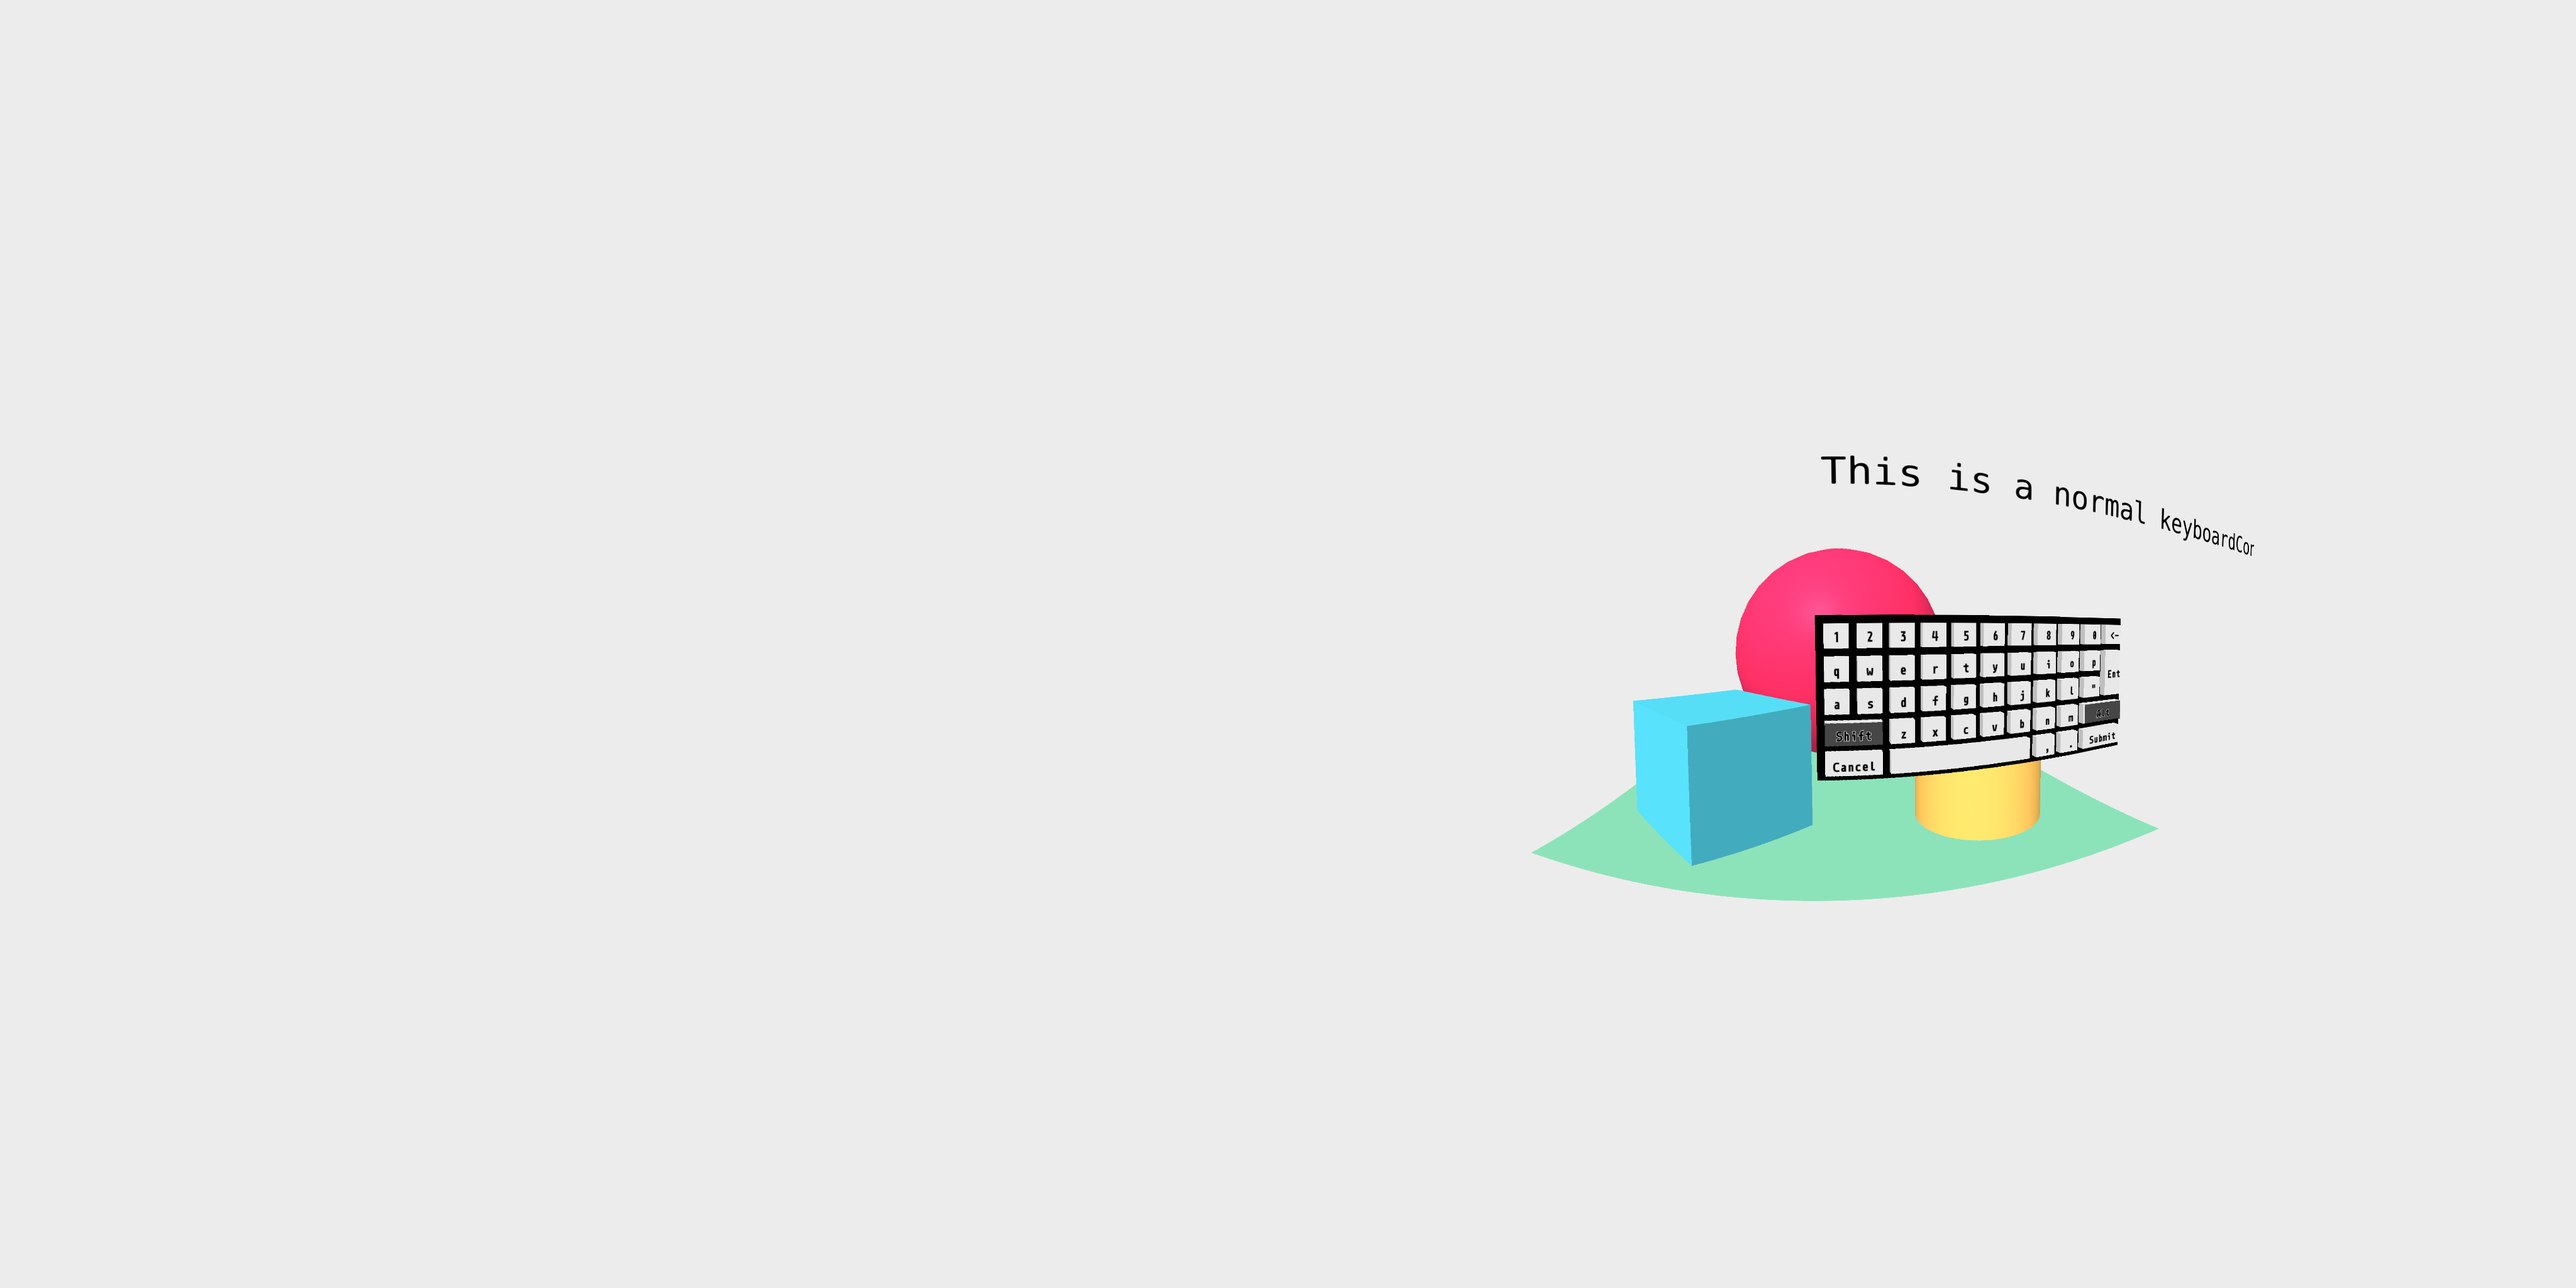
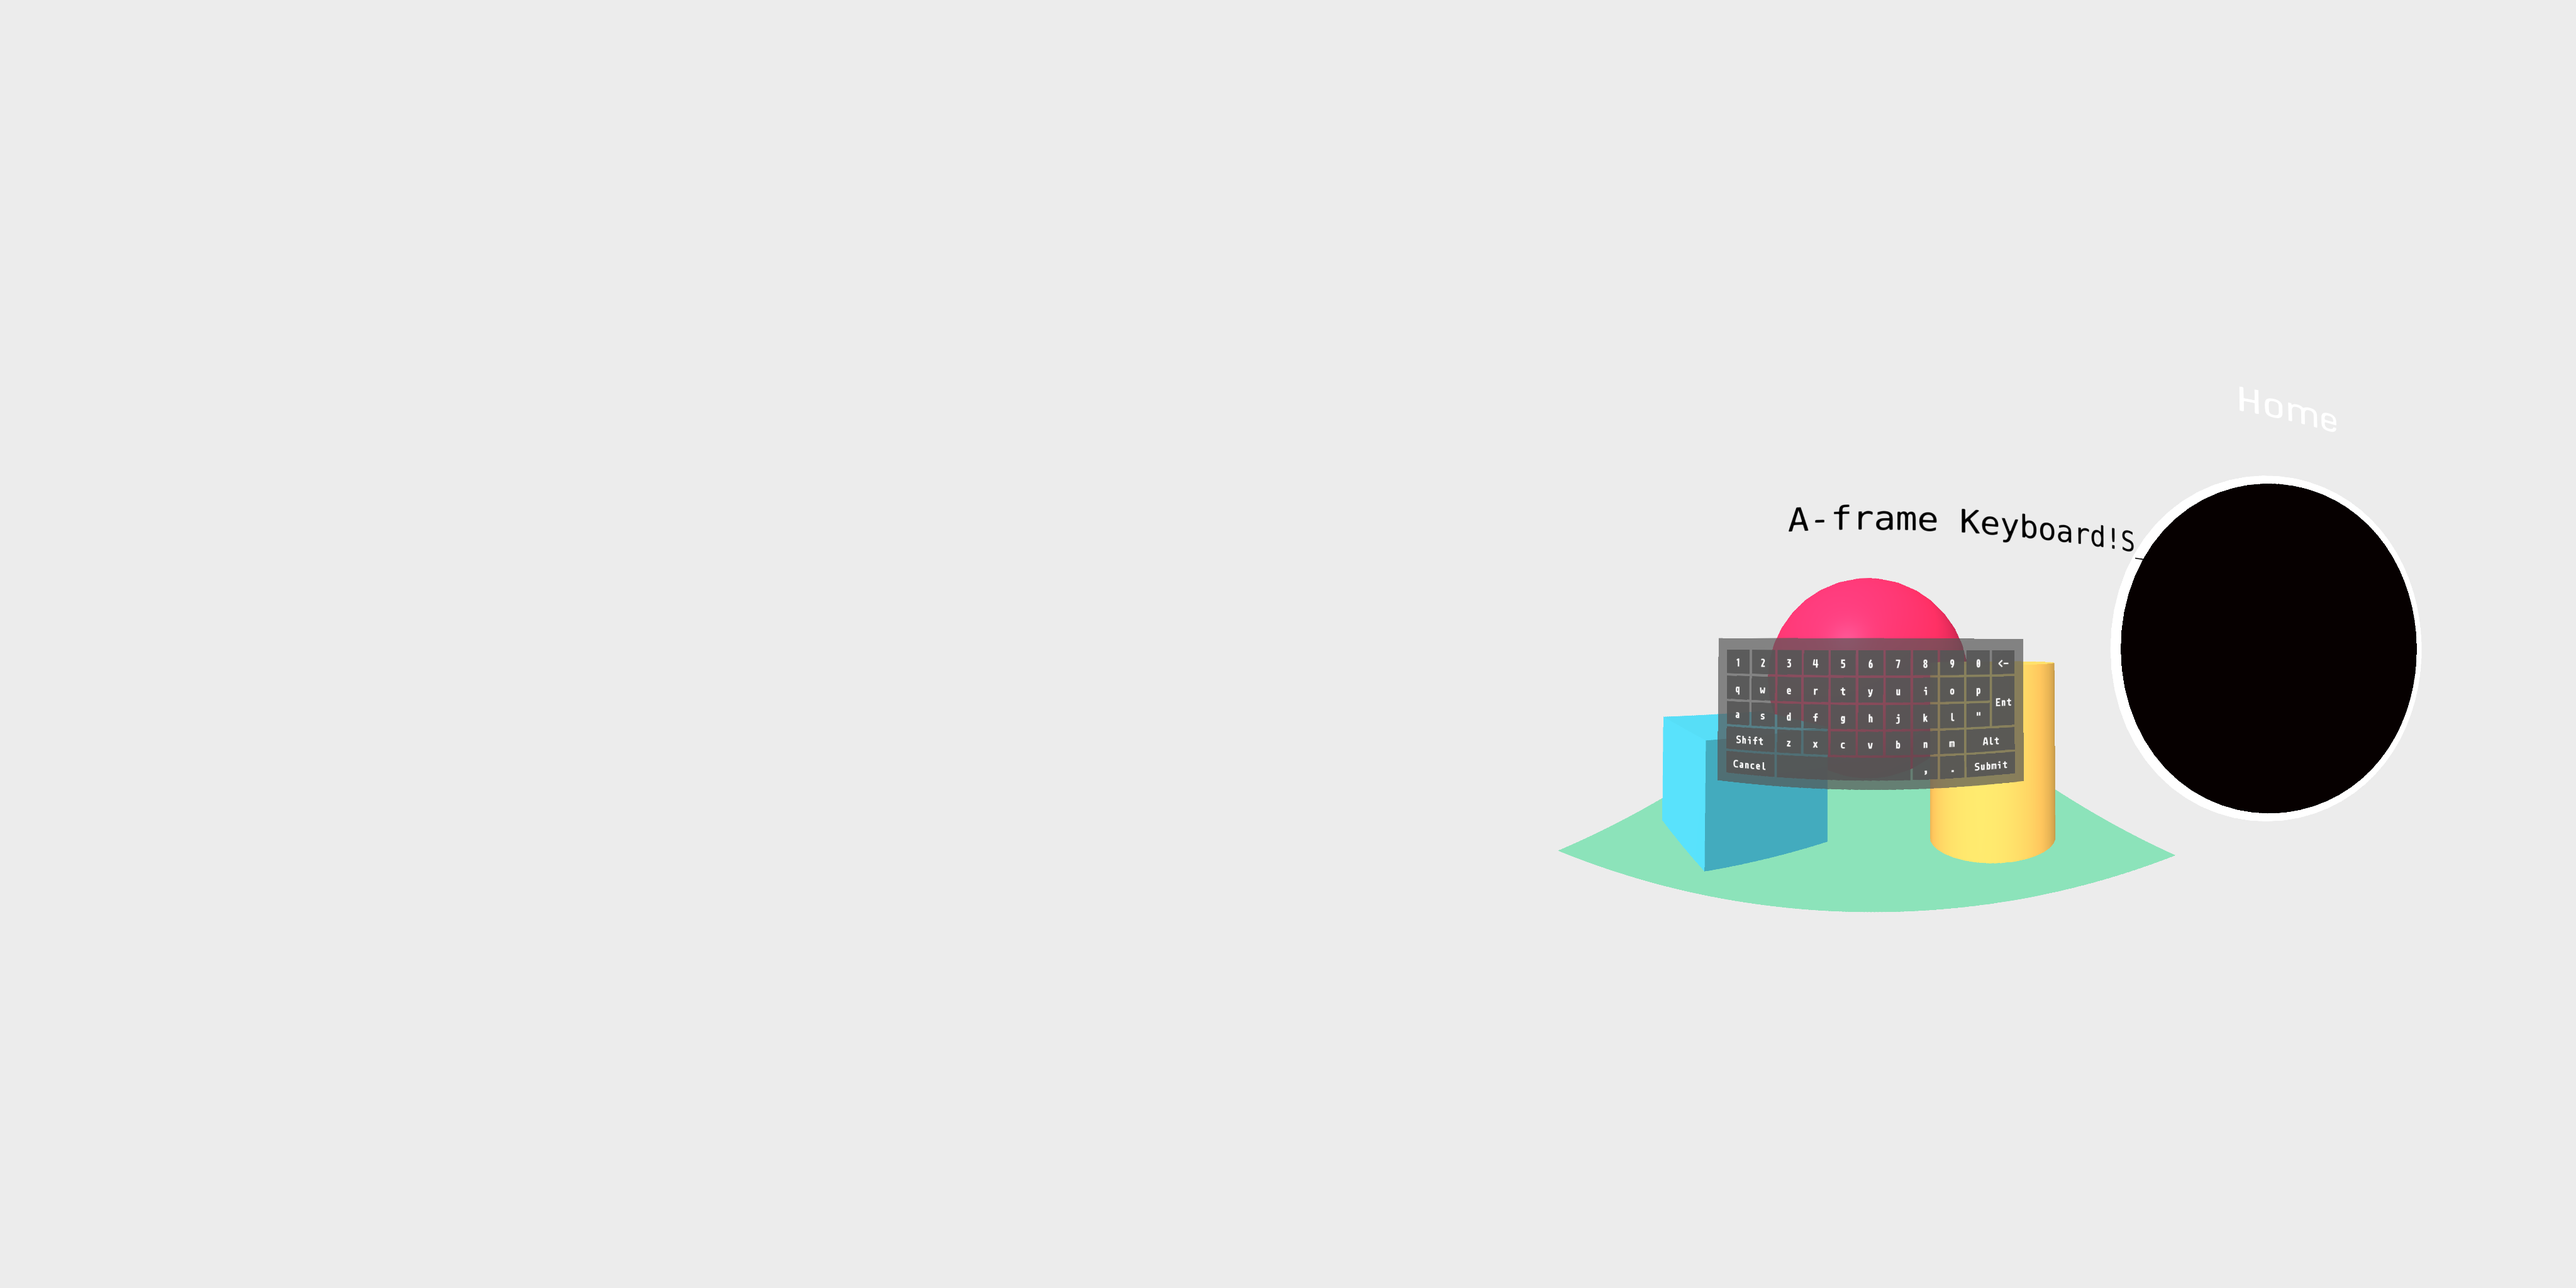
Added custom textures and created improved example pages

Changed region(s): [[0.5938, 0.3438, 0.9375, 0.7188]]

diff --git a/examples/basic/index.html b/examples/basic/index.html
@@ -4,7 +4,7 @@
     <meta charset="UTF-8">
     <meta name="viewport" content="width=device-width, initial-scale=1.0, minimal-ui, viewport-fit=cover">
     <script src="https://aframe.io/releases/0.9.0/aframe.min.js"></script>
-    <script>window.AFK || document.write('<script src="../../dist/aframe-keyboard.min.js">\x3C/script>')</script>
+    <script>window.AFK || document.write('<script src="../aframe-keyboard.min.js">\x3C/script>')</script>
     <title>Keyboard Sample</title>
     <style>
       body {
@@ -20,12 +20,17 @@
   </head>
   <body>
     <a-scene keyboard-shortcuts="enterVR: false">
+      <a-assets>
+        <img id="homeThumbnail" src="../img/home_portal.png">
+      </a-assets>
       <!-- environment -->
       <a-sky color="#ECECEC"></a-sky>
       <a-box position="-1 0.5 -3" rotation="0 45 0" color="#4CC3D9"></a-box>
       <a-sphere position="0 1.25 -5" radius="1.25" color="#EF2D5E"></a-sphere>
       <a-cylinder position="1 0.75 -3" radius="0.5" height="1.5" color="#FFC65D"></a-cylinder>
       <a-plane position="0 0 -4" rotation="-90 0 0" width="4" height="4" color="#7BC8A4"></a-plane>
+
+      <a-link class="collidable" image="#homeThumbnail" border-color="#000" title-color="#000" visual-aspect-enabled="false" href="../index.html" rotation="0 -30 0" position="2 1.6 -1" title="Home"></a-link>
 
       <!-- keyboard -->
       <a-text id="input" font="dejavu" color="#000" value="Input value..." scale="0.5 0.5 0.5" position="-0.2 2 -1"></a-text>

diff --git a/examples/custom/index.html b/examples/custom/index.html
@@ -4,7 +4,7 @@
     <meta charset="UTF-8">
     <meta name="viewport" content="width=device-width, initial-scale=1.0, minimal-ui, viewport-fit=cover">
     <script src="https://aframe.io/releases/0.9.0/aframe.min.js"></script>
-    <script>window.AFK || document.write('<script src="../../dist/aframe-keyboard.min.js">\x3C/script>')</script>
+    <script>window.AFK || document.write('<script src="../aframe-keyboard.min.js">\x3C/script>')</script>
     <title>Keyboard Sample</title>
     <style>
       body {
@@ -20,12 +20,17 @@
   </head>
   <body>
     <a-scene keyboard-shortcuts="enterVR: false">
+      <a-assets>
+        <img id="homeThumbnail" src="../img/home_portal.png">
+      </a-assets>
       <!-- environment -->
       <a-sky color="#ECECEC"></a-sky>
       <a-box position="-1 0.5 -3" rotation="0 45 0" color="#4CC3D9"></a-box>
       <a-sphere position="0 1.25 -5" radius="1.25" color="#EF2D5E"></a-sphere>
       <a-cylinder position="1 0.75 -3" radius="0.5" height="1.5" color="#FFC65D"></a-cylinder>
       <a-plane position="0 0 -4" rotation="-90 0 0" width="4" height="4" color="#7BC8A4"></a-plane>
+
+      <a-link class="collidable" image="#homeThumbnail" border-color="#000" title-color="#000" visual-aspect-enabled="false" href="../index.html" rotation="0 -30 0" position="2 1.6 -1" title="Home"></a-link>
 
       <!-- keyboard -->
       <a-text id="input" font="dejavu" color="#000" value="Input value..." scale="0.5 0.5 0.5" position="-0.2 2 -1"></a-text>

diff --git a/examples/index.html b/examples/index.html
@@ -22,6 +22,7 @@
     <a-scene keyboard-shortcuts="enterVR: false">
       <a-assets>
         <img id="basicThumbnail" src="img/basic_portal.png">
+        <img id="customThumbnail" src="img/custom_portal.png">
       </a-assets>
       <!-- environment -->
       <a-sky color="#ECECEC"></a-sky>
@@ -31,7 +32,7 @@
       <a-plane position="0 0 -4" rotation="-90 0 0" width="4" height="4" color="#7BC8A4"></a-plane>
 
       <a-link class="collidable" image="#basicThumbnail" border-color="#000" color="#000" visual-aspect-enabled="false" href="basic/index.html" position="-1 1.6 -1.5" title="Basic Usage"></a-link>
-      <a-link class="collidable" image="#basicThumbnail" border-color="#000" title-color="#000" visual-aspect-enabled="false" href="basic/index.html" position="1 1.6 -1.5" title="Custom Keyboard"></a-link>
+      <a-link class="collidable" image="#customThumbnail" border-color="#000" title-color="#000" visual-aspect-enabled="false" href="custom/index.html" position="1 1.6 -1.5" title="Custom Keyboard"></a-link>
 
       <a-entity id="mouseCursor" raycaster="objects: .collidable" cursor="rayOrigin: mouse"></a-entity>
     </a-scene>

diff --git a/src/keyboardTemplate.js b/src/keyboardTemplate.js
@@ -27,7 +27,8 @@ class KeyboardTemplate {
 
     const button = document.createElement('a-entity');
     button.setAttribute('geometry', `primitive: plane; width: ${width}; height: ${height};`);
-    if (this.keyTexture) {
+
+    if (this.keyTexture && this.keyTexture.length > 0) {
       button.setAttribute('material', `src: ${this.keyTexture}`);
     } else {
       button.setAttribute('material', 'color: #4a4a4a; opacity: 0.9');
@@ -72,7 +73,7 @@ class KeyboardTemplate {
       keyboard.setAttribute('position', `${(keyboardWidth / 2) - KEYBOARD_PADDING} ${(-keyboardHeight / 2) + KEYBOARD_PADDING} -0.01`);
       keyboard.setAttribute('geometry', `primitive: plane; width: ${keyboardWidth}; height: ${keyboardHeight}`);
 
-      if (this.baseTexture) {
+      if (this.baseTexture && this.baseTexture.length > 0) {
         keyboard.setAttribute('material', `src: ${this.baseTexture}`);
       } else {
         keyboard.setAttribute('material', 'color: #4a4a4a; side: double; opacity: 0.7');

diff --git a/src/components/aframe-keyboard.js b/src/components/aframe-keyboard.js
@@ -21,7 +21,6 @@ AFRAME.registerComponent('a-keyboard', {
   },
 
   init: function() {
-    console.log(this.data);
     AFK.template.draw({...this.data, el: this.el});
     this.attachEventListeners();
   },
